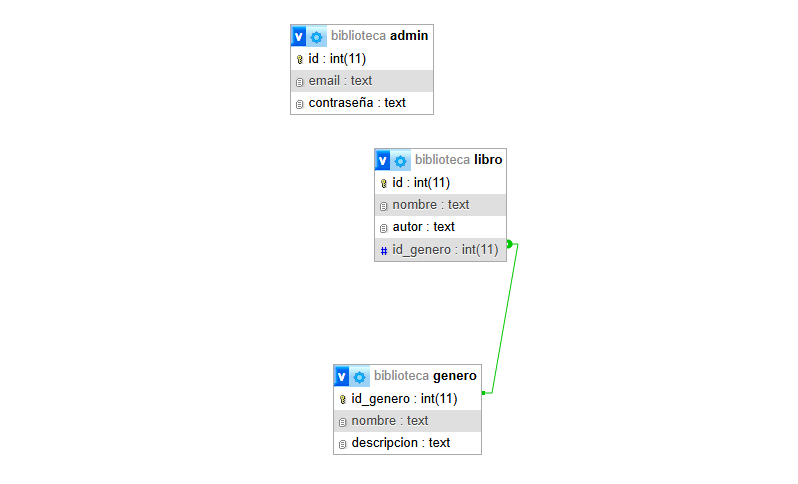
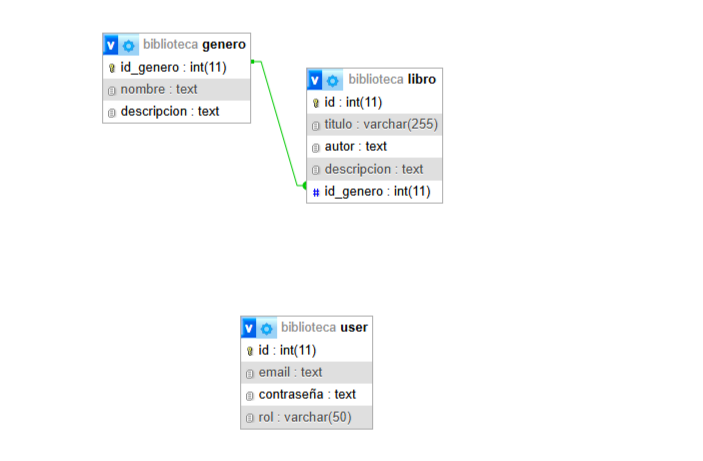
ajusto el DER y el readme

Changed region(s): [[0.1195, 0.0304, 0.6572, 0.5466], [0.3286, 0.6681, 0.6273, 0.9414], [0.6273, 0.6074, 0.6572, 0.6377]]

diff --git a/README.md b/README.md
@@ -1,9 +1,8 @@
 # Integrantes:
 - Lucero Gasparini Rodriguez (lucerogasparini@gmail.com)
-- Marco Ezequiel Fernandez (marcoeze14@gmail.com)
 
 # Descripcion
-El objetivo es crear un sistema de biblioteca donde hay multiples generos de libros pero cada libro puede tener un solo genero
+El objetivo es crear un sistema de biblioteca donde hay multiples generos de libros pero cada libro puede tener un solo genero, puedo agregar libros, asi como tambien generos, estos pueden ser editados y eliminados solo por personas registradas en la tabla user de la db
 
 # DER
 ![Diagrama Entidad Relacion](DER.png)
